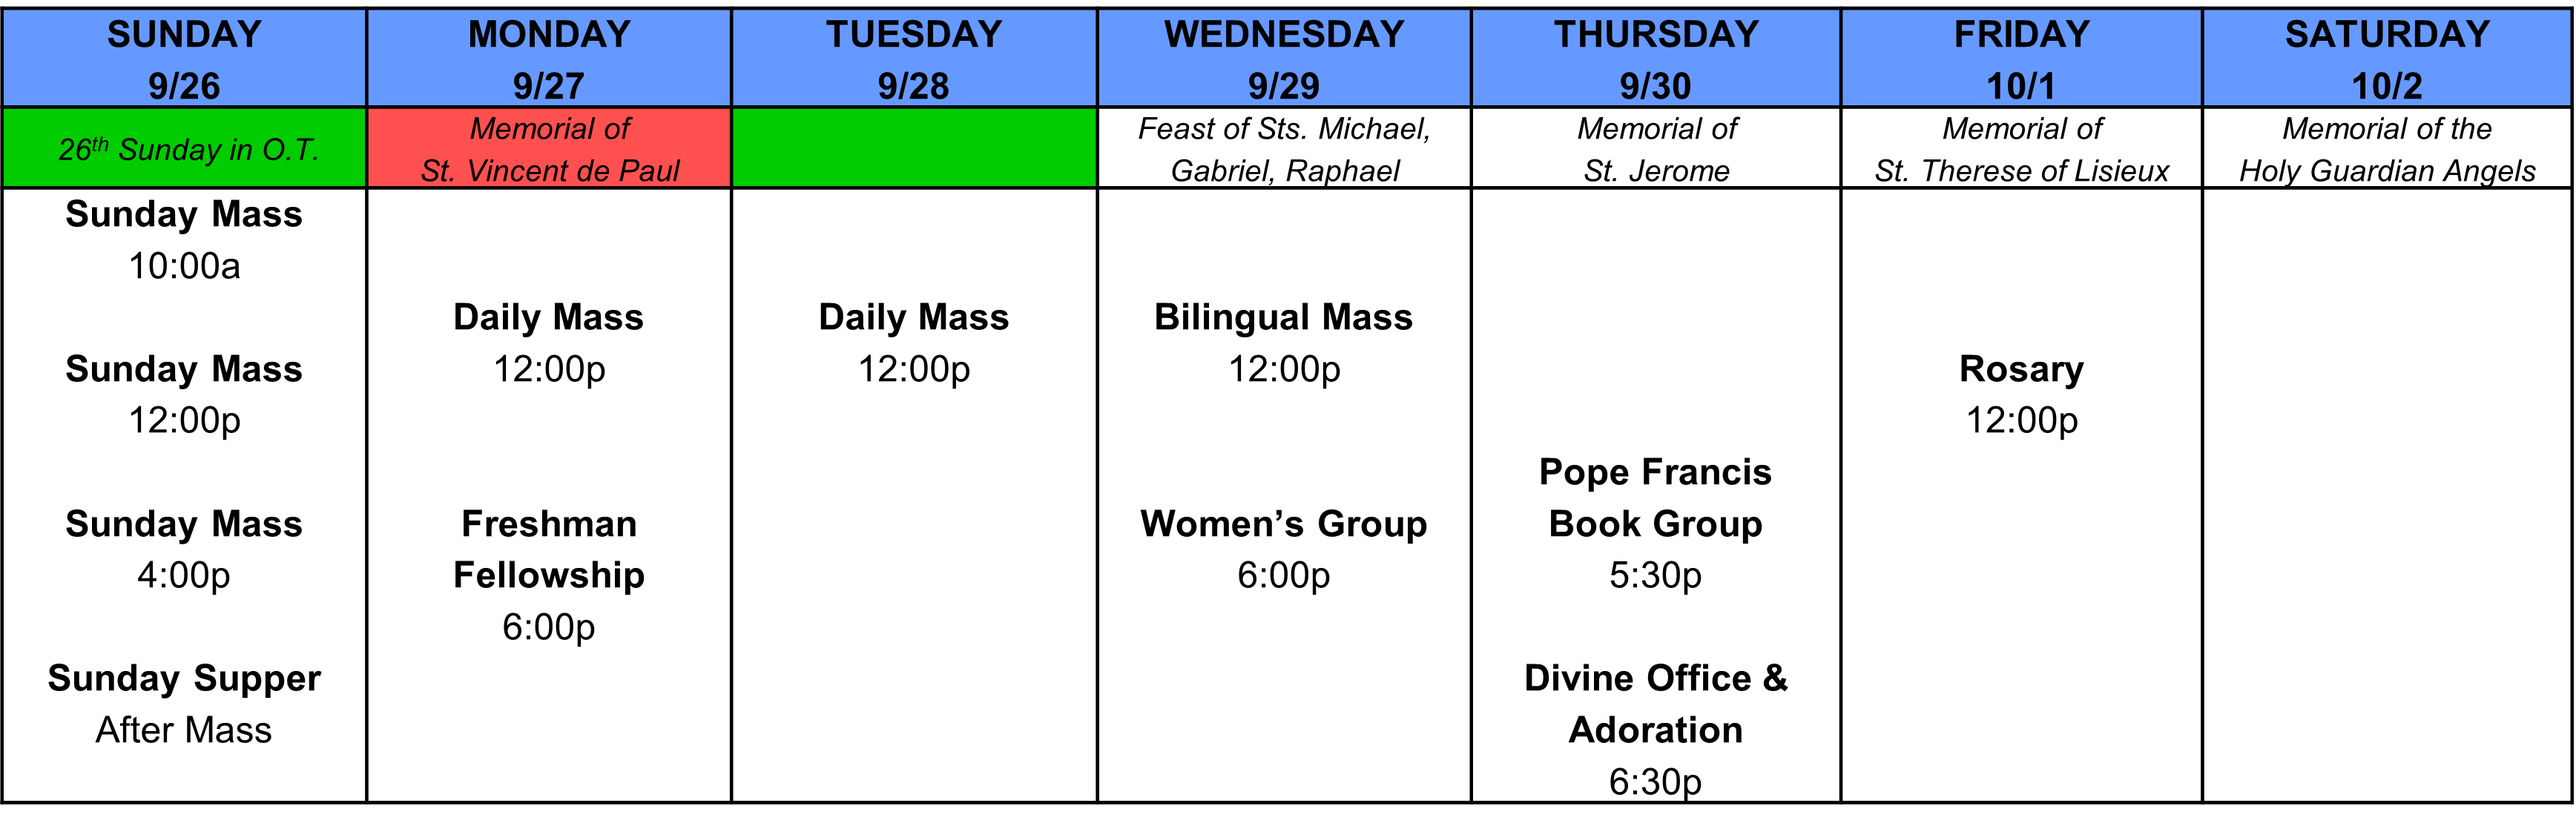
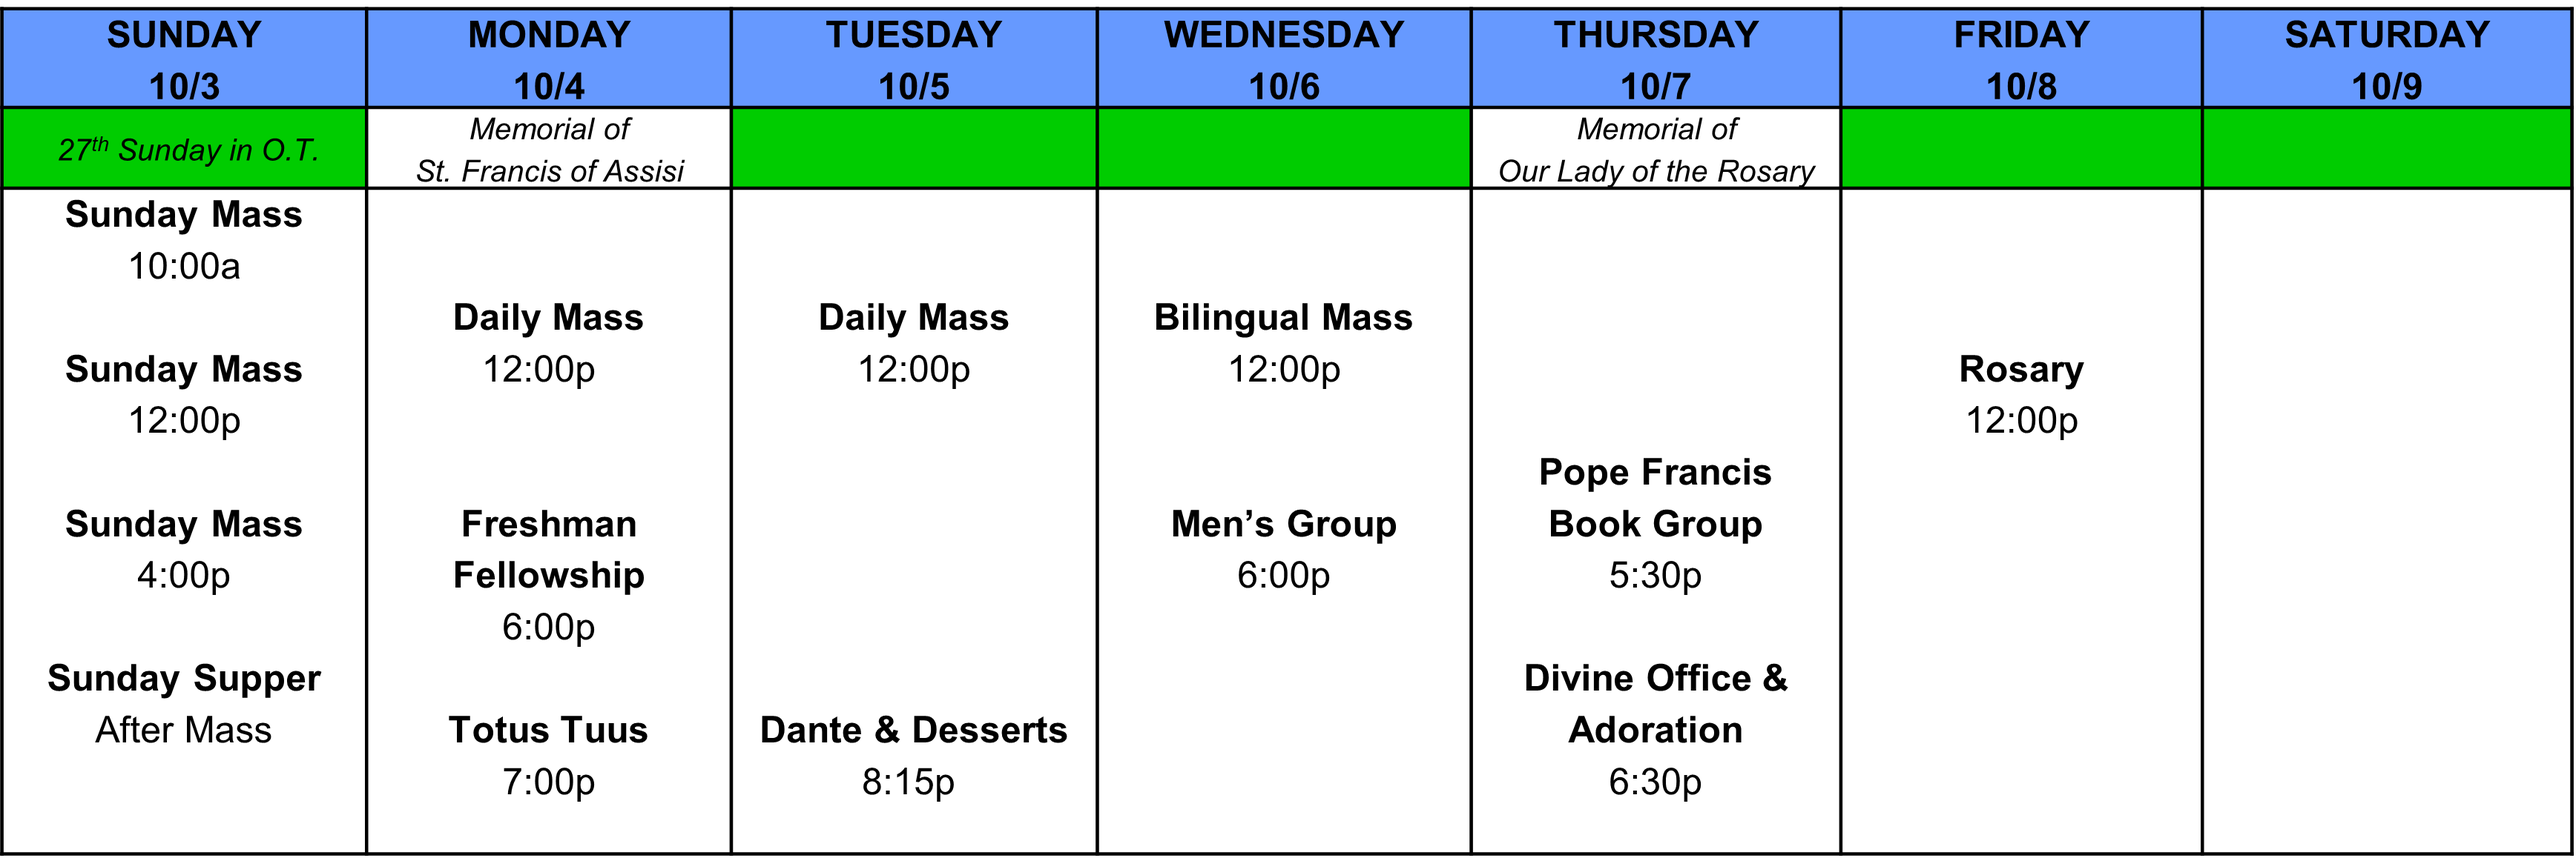
10/03

diff --git a/index.html b/index.html
@@ -7,24 +7,41 @@
 </style>
 </head>
 
-<body>
+<body style="padding:2%">
 
-<h1><span style="color: #0044aa;">Rice Catholic Student Association</span></h1>
-<h2><span style="color: #707070;">Events and Announcements for 9/26 - 10/2</span></h2>
+<p><img style="width: 900px;" src="banner.png" /></p>
+<h2><span style="color: #707070;">Events and Announcements for 10/3 - 10/9</span></h2>
+<p>&nbsp;</p>
+<h2><span style="text-decoration: underline;"><span style="color: #707070; text-decoration: underline;">Important Announcements</span></span></h2>
+<h3><span style="color: #0044aa;"><strong>Fall Retreat</strong></span></h3>
+<p class="tab"><strong><u>Contact: </u></strong><u>Valentina Osorio (<a href="mailto:vo8@rice.edu">vo8@rice.edu</a>)</u><br />Save the date - Saturday, October 23 - for our one-day Fall retreat!! Get ready to take a nice break from your everyday routines to spend time with God and other Catholics. More details to come :)</p>
+<h3><span style="color: #0044aa;"><strong>New Group!</strong></span></h3>
+<p class="tab"><strong><u>Contact: </u></strong><u>Leslie Arrazolo (<a href="mailto:lka3@rice.edu">lka3@rice.edu</a>) </u><br />This is a call to all the wonderful Latina ladies to join Totus Tuus! Our first meeting is Monday at 7pm in the Martel PDR.&nbsp; This small group is inspired by JPII's beautiful consecration to Mary. Join Leslie, Karina, and Alyssa in this small group as we share our common experiences and grow in relationship with our beloved Mother, and let her know that we are hers.&nbsp; Contact Leslie if you would like to be added to our group chat!</p>
+<h3><span style="color: #0044aa;"><strong>Women&rsquo;s Group</strong></span></h3>
+<p class="tab"><strong><u>Contact: </u></strong><u>Karen Martinez Perez (</u><a href="mailto:kmm10@rice.edu">kmm10@rice.edu</a><u>)</u><br />There is no Women&rsquo;s Group this week &ndash; but we will be meeting next week!</p>
+<h2><span style="text-decoration: underline;"><span style="color: #707070; text-decoration: underline;">Events</span></span></h2>
+<h3><span style="color: #0044aa;">Mass Times</span></h3>
+<p class="tab">Sunday Mass is offered at 10a, Noon, and 4pm. Daily Mass will be offered Monday and Tuesday at Noon. Bilingual Mass will be offered at Noon on Wednesday.&nbsp;</p>
+<p class="tab">If you're a student, join us for Sunday Supper after the 4pm Mass on Sunday!</p>
+<h3><span style="color: #0044aa;">Overview of Events</span></h3>
+<ul>
+<li class="tab">On Monday Night, Freshman Fellowship will be meeting at 6:00p in the CSC.&nbsp; Totus Tuus will be meeting at 7:00p in Martel PDR.</li>
+<li class="tab">Dante &amp; Desserts will be Tuesday at 8:15p in the CSC.</li>
+<li class="tab">Men's Group will be meeting at 6:00p in the CSC.</li>
+<li class="tab">The Fratelli Tutti Book Study will be meeting at 5:30p in the CSC, followed by the Divine Office and Adoration in the Chapel at 6:30.</li>
+<li class="tab">Friday Rosary will be at 12:00p by the Baker Fountians.</li>
+</ul>
+<p class="tab"><em>More information about these events is listed below:</em></p>
 <p><img style="width: 864px;" src="cal.png" /></p>
-<h3><span style="color: #0044aa;">Mass Schedule</span></h3>
-<p class="tab">Sunday Mass is offered at 10a, Noon, and 4pm. Daily Mass will be offered Monday and Tuesday at Noon. Bilingual Mass will be offered at Noon on Wednesday.</p>
-<h3><span style="color: #0044aa;">Sunday Supper</span></h3>
-<p class="tab">If you're a student, join us for Sunday Supper after the 4pm Mass!</p>
-<h3><span style="color: #0044aa;">Men&rsquo;s Group</span></h3>
-<p class="tab"><span style="text-decoration: underline;"> <strong>Contact:</strong> Nicholas Soria (<a href="mailto:nrs4@rice.edu">nrs4@rice.edu</a>)</span></p>
-<p class="tab">There is no Men's Group this week - we will resume next week!</p>
 <h3><span style="color: #0044aa;">Freshman Fellowship</span></h3>
 <p class="tab"><span style="text-decoration: underline;"> <strong>CSC | Mon. 6:00p - 7:00p | Contact:</strong> Joseph Paci, Katie Impelman (<a href="mailto:jpp5@rice.edu">jpp5@rice.edu</a>, <a href="mailto:kai3@rice.edu">kai3@rice.edu</a>)</span></p>
 <p class="tab">Are you new to Rice and looking to grow in your faith and get to know your fellow Catholics better? Come to Freshmen Fellowship! We meet one evening a week for dinner and group discussions centered on the faith.</p>
-<h3><span style="color: #0044aa;">Women's Group</span></h3>
-<p class="tab"><span style="text-decoration: underline;"> <strong>CSC | Wed. 6:00p - 7:00p | Contact: </strong>Karen Martinez Perez (<a href="mailto:kmm10@rice.edu">kmm10@rice.edu</a>)</span></p>
-<p class="tab">Join us for part two of two in this mini-series called Healthy Habits. During this transition period, it can be very useful to find some healthy habits (through exercise and meditation) early on. For this second session, join us as we take a meditative walk around Inner Loop and share what tools we use to assist our faith life. First 10 women who show up will also receive what I call an "emergency bag" with some things like tissues, bandaids, and more! It'll be a nice productive study break, so please come and bring a friend :)</p>
+<h3><span style="color: #0044aa;"><strong>Totus Tuus Small Group</strong></span></h3>
+<p class="tab"><strong><u>Martel PDR | Mon. 7:00p - 8:00p | Contact: </u></strong><u>Leslie Arrazolo (<a href="mailto:lka3@rice.edu">lka3@rice.edu</a>)<br /></u>A call to all the wonderful Latina ladies to join Totus Tuus! This small group is inspired by JPII's beautiful consecration to Mary. Join Leslie, Karina, and Alyssa in this small group as we share our common experiences and grow in relationship with our beloved Mother, and let her know that we are hers.&nbsp; Text Leslie at (956) 443-7595 if you would like to be added to our group chat!</p>
+<h3><span style="color: #0044aa;"><strong>Dante &amp; Desserts</strong></span></h3>
+<p class="tab"><u><strong>CSC | Tue. 8:15p - 9:00p | Contact: </strong>Mimi Tran (<a href="mailto:mimi.ricecm@gmail.com">mimi.ricecm@gmail.com</a>)<br /></u>Join us weekly for 100 days of Dante as we read through The Divine Comedy and enjoy a sweet treat alongside our guided group discussion!</p>
+<h3><span style="color: #0044aa;"><strong>Men&rsquo;s Group</strong></span></h3>
+<p class="tab"><strong><u>CSC | Wed. 6:00p - 7:00p | Contact: </u></strong><u>Nicholas Soria (</u><a href="mailto:nrs4@rice.edu">nrs4@rice.edu</a><u>)</u><br />Fellowship by and for men. Come to talk the faith together, and particularly to grow in the spiritual life. Group prayer, group reading, etc.</p>
 <h3><span style="color: #0044aa;">Pope Francis Book Group</span></h3>
 <p class="tab"><span style="text-decoration: underline;"> <strong>CSC | Thr. 5:30p - 6:30p | Contact:</strong> Trey Weltens (<a href="mailto:cmw20@rice.edu">cmw20@rice.edu</a>)</span></p>
 <p class="tab">Join us for a 6-week guided reading of Fratelli Tutti, Pope Francis&rsquo; 2020 encyclical.</p>
@@ -34,7 +51,6 @@
 <h3><span style="color: #0044aa;">Rosary</span></h3>
 <p class="tab"><span style="text-decoration: underline;"> <strong>Baker Fountain | Fri. 12:00p | Contact:</strong> Joseph Paci (<a href="mailto:jpp5@rice.edu">jpp5@rice.edu</a>)</span></p>
 <p class="tab">Join us Fridays at noon outside of the Baker fountain to pray a rosary together!</p>
-
 
 </body>
 </html>
